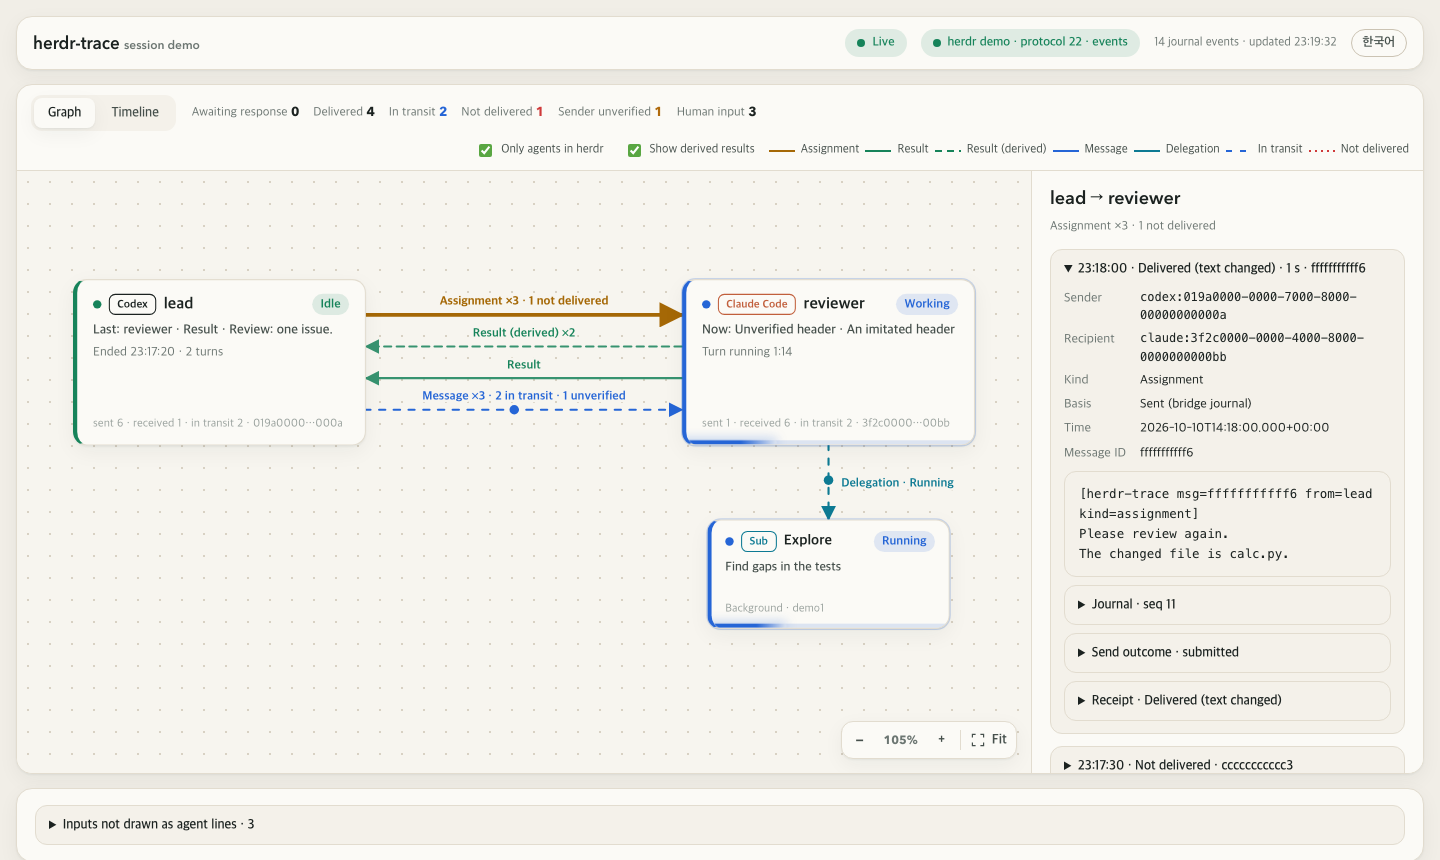
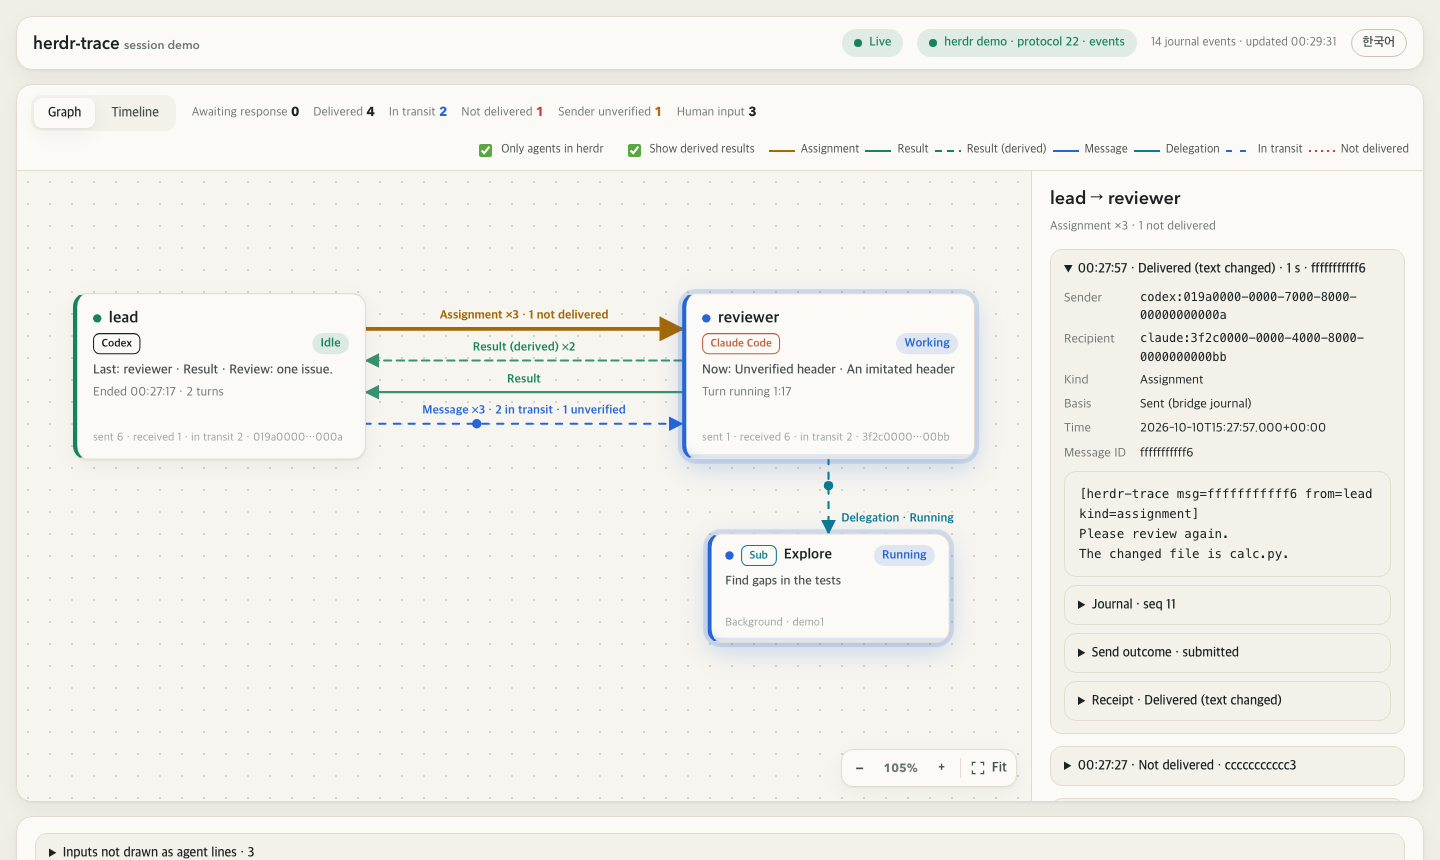
Show two films of real runs in the README
team.gif opens the README: an orchestrator (Claude Code) hands an implementer,
a verifier and a docs writer their assignments at once, and herdr-trace draws
the fan-out and the results, ending on the timeline. review.gif, under What you
see, is one review round between a Codex lead and a Claude Code reviewer,
ending with a card's link opening the lead's pane in herdr web ui.

Both were recorded in a herdr session made for them, with approvals skipped;
the README says so. The graph screenshot is taken again for the cards' new
name line, and the plan logs how the films were made and what they showed.

diff --git a/README.md b/README.md
@@ -4,7 +4,10 @@ See what passed between your coding agents in [herdr](https://herdr.dev), and wh
 
 > **Status: pre-alpha, not released. macOS only for now; Linux comes later.** The plan is in [docs/plan.md](docs/plan.md).
 
-![The graph view: a Codex agent and a Claude Code agent with the assignments, results and messages between them, and the evidence for one delivery.](docs/media/graph.png)
+![Four agents in one herdr session. An orchestrator (Claude Code) sends an implementer and a docs writer (Codex) and a verifier (Claude Code) their assignments at once; the graph puts the orchestrator above the three, and their results come back as lines. The timeline at the end shows the three working side by side.](docs/media/team.gif)
+
+*A real run, sped up while the agents work: the herdr-trace view above, the four agents' terminals below.
+The films were recorded in a herdr session made for them, with the agents' approvals skipped.*
 
 When agents from different tools (Codex, Claude Code) work together in one herdr session, herdr shows each
 pane, but not the conversation between them. herdr-trace draws it: who asked whom for what, whether the
@@ -16,8 +19,13 @@ it never types into an agent and never answers an approval.
 
 ## What you see
 
+![A Codex lead asks a Claude Code reviewer for a review through herdr-trace. The assignment and the result appear as they are sent, with the evidence for the delivery; then the lead card's link opens the lead's pane in herdr web ui, where the reviewer's message sits in the lead's conversation.](docs/media/review.gif)
+
+*One review round between a Codex lead and a Claude Code reviewer, then a card's link into herdr web ui.*
+
 - **Agents as cards**, one per tool session, with herdr's state (working, idle, awaiting a response) and
-  the turn each one is on. A working agent's card moves; one waiting on an approval stands out.
+  the turn each one is on. A working agent's card moves; one waiting on an approval stands out. When one
+  agent hands work to several, it sits a row above them.
 - **Lines between them** for assignments, results and messages, each with its delivery state:
   delivered, delivered with the text changed, queued, sent while the recipient was busy, not confirmed,
   or not delivered.
@@ -29,6 +37,8 @@ it never types into an agent and never answers an approval.
 - **Links into [herdr web ui](https://github.com/devswha/herdr-web-ui)**: give its address, and each card
   opens that agent's pane there.
 - English or Korean; each viewer picks.
+
+![The graph view: a Codex agent and a Claude Code agent with the assignments, results and messages between them, and the evidence for one delivery.](docs/media/graph.png)
 
 ![The timeline view: turns as bars on real time, with the deliveries between the agents.](docs/media/timeline.png)
 

diff --git a/docs/plan.md b/docs/plan.md
@@ -287,3 +287,26 @@ herdr-trace serve ◀── 저널 + 받는 쪽 기록 파일(~/.codex, ~/.claud
 - 꾸며낸 데모 데이터(`demo_data.py`, `demo.py`)의 메시지와 제목을 영어로 바꿨다. 이야기 구성(A–G, 시각, 상태)은 그대로다.
 - 같은 데이터를 쓰는 테스트의 문장도 같은 번역표로 영어로 바꿨다. 테스트 88개 통과.
 - 브라우저(Chromium)로 데모를 봤다. 영어 화면에 남은 한국어는 언어 전환 버튼의 "한국어"뿐이었고, 브라우저 오류는 없다.
+
+### 5단계 준비: README 영상 (2026-10-11, 완료)
+
+녹화 전용 herdr 세션(`trace-demo`)에서 실제 에이전트를 돌려 Playwright로 녹화했다.
+- 녹화 환경:
+  - 터미널은 이 세션에만 붙인 herdr web ui(7318)의 터미널 보기로 찍었다.
+  - 에이전트 승인은 이 세션에서만 생략했다(사용자 결정).
+  - web ui 머리 줄(호스트 이름과 경로)은 잘라 내거나 가렸다. 터미널 속 홈 경로와 사용량 표시는 그대로 두었다(사용자 확인).
+- `docs/media/review.gif`(55.6초, 7.0MB):
+  - Codex lead가 Claude Code reviewer에게 검토를 맡기고 결과를 받는다.
+  - 끝에 카드 링크로 lead의 pane을 web ui 대화 보기에서 연다.
+- `docs/media/team.gif`(55초, 7.2MB):
+  - orchestrator(Claude Code)가 implementer·docs(Codex)와 verifier(Claude Code)에게 작업 요청을 한꺼번에 보낸다.
+  - 실제 진행은 약 2분이었다. 메시지 7건이 모두 전달 확인됐고, 보낸 쪽도 모두 확인됐다.
+- GIF 용량: 녹화 압축 잡음만 다른 프레임은 버리고 직전 프레임을 최대 1초 늘려 보여 준다. mp4는 저장소 밖에 두고, 공개 뒤 GitHub에 올린다.
+- 녹화하다 고친 화면:
+  - 그래프 높이를 창에 맞췄다.
+  - 작업 요청이 둘 이상에게 퍼지면 보낸 쪽을 한 줄 위에 두는 배치를 넣었다.
+  - 카드 이름에 첫 줄을 따로 줬다.
+- 녹화에서 확인한 것:
+  - Codex의 첫 `herdr-trace send`는 herdr 환경변수가 지워져 실패한다. 규칙대로 `--from`을 붙여 다시 보냈고, 보낸 쪽은 `CODEX_THREAD_ID`로 확인됐다.
+  - verifier의 첫 턴은 "테스트를 써 두고 implementer를 기다린다"로 끝났다. 이 턴은 맡긴 일이 없어서 그 답이 중간 응답이 아니라 도출 결과로 그려졌다. 명시 결과가 온 뒤에는 "명시 결과 있음"으로 흐려진다. 동료의 메시지를 기다리는 턴을 중간 응답으로 볼지는 열린 질문이다.
+
